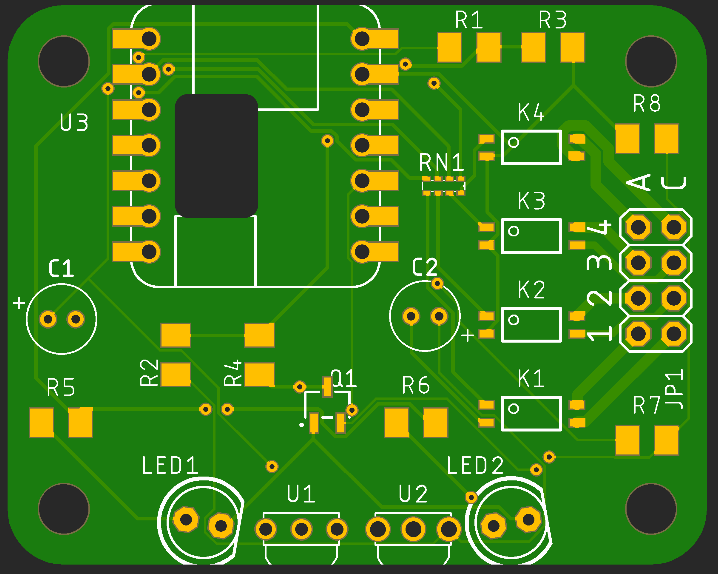
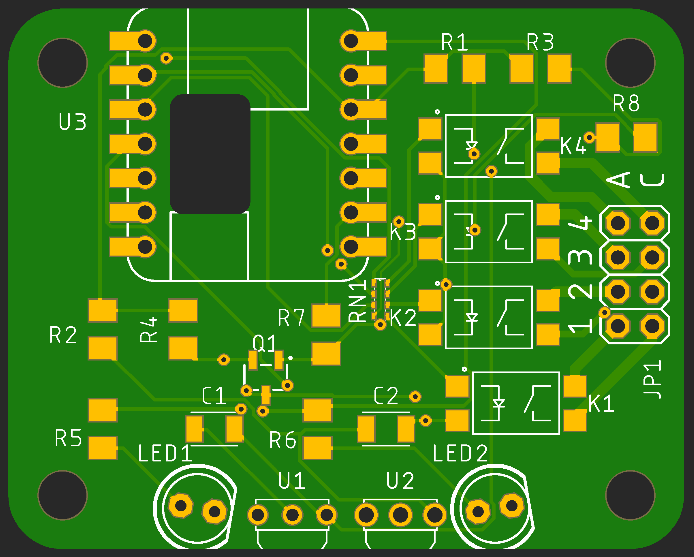
board, parts, ...

diff --git a/README.md b/README.md
@@ -16,7 +16,9 @@ The use of an IR transceiver & encoder/decoder will allow the MCU to learn and t
 
 |    Date    | Status                                                       |
 | :--------: | ------------------------------------------------------------ |
-| 2022-11-22 | Built a board and working with IRLib2 examples & (5) remotes.<br>Waiting for QT Py SPI Flash chips. |
+| 2022-11-23 | Fixed the relay footprints, changed the caps to SMD, moved the carrier detector<br/>input to pin 3 (IRLib default), changed RN1 value. Parts list update pending. |
+| 2022-11-23 | Found out this morning that the MOSFET lib part was totally fubar. Thanks<br/> "Ultra" Librarian. I spend more time fixing imported library parts. Rev 2b on the way. |
+| 2022-11-22 | Built a board and working with IRLib2 examples & (5) remotes.<br/>Waiting for QT Py SPI Flash chips. |
 | 2022-11-21 | Created a cutout for QT Py Flash memory. The boards arrive today. |
 | 2022-11-16 | The last part will arrived tomorrow. The board is fabbed and will arrive next week. |
 | 2022-11-13 | Board updated, cleanup and updates pending. Board and parts orders pending. |
@@ -32,7 +34,19 @@ The use of an IR transceiver & encoder/decoder will allow the MCU to learn and t
 
 The full complement of Eagle and Gerber files (for PCB fabrication) will be provided after proof-of-concept.
 
+---
+
+[TOC]
+
+---
+
 ### Testing Status:
+
+**2022-11-23**
+
+No transmit for me. The imported MOSFET's connections were totally botched (3 for 3).
+
+Tested QT Py SAMD21 current output. The relays like 10mA and drop GPIO output to 2.90V. That changes the dropping resistor to 163Ω - the next closest was 150Ω.
 
 **2022-11-22**
 
@@ -103,9 +117,11 @@ An incorrect prototype footprint was used. A replacement is being ordered that w
 
 ## ToDo List
 
+* ~~Maybe move the carrier detector output to pin 3 to eliminate a IRLib code change~~.
 * ~~Add the footprint for the ItsyBitsy MCU~~.
 * ~~Put a cutout in the board to facilitate the addition of SPI Flash memory to the QT Py when mounted via  castellated pad~~s.
-* Find out where the hell the SSRelay footprints came from! Too small! Either get what goes there or upsize them on the next board version. The relays were the least of my concern so I didn't bother trying to mount them until now. I do need to check the combined current load.
+* ~~SMD Caps~~.
+* ~~Fix the SSRelay footprints~~.
 * Move the IR LEDs back. After bending them 90° they protrude forward a bit much. 
 * Consider adding I2C UART for HC-05 Bluetooth module.
 * Add some test points for access to inaccessible pads.
@@ -224,9 +240,9 @@ Rohm [RJK005N03FRAT146](https://www.digikey.com/short/qvnjfq3w) [datasheet](http
 
 ### Passives
 
-#### C1 C2: 4.7µF electrolytic cap 16V 20% x 2
+#### C1 C2: 4.7µF tantalum cap 10V 10% x 2
 
-	Kemet [ESK475M016AC3AA](https://www.digikey.com/short/0jd8j3q3) 0.24 / 0.166
+	Kemet [ESK475M016AC3AA](https://www.digikey.com/short/2bzhn052) 0.55 / 0.291
 
 #### R1 R2: 100Ω 5% 1/4W 1206 resistor
 
